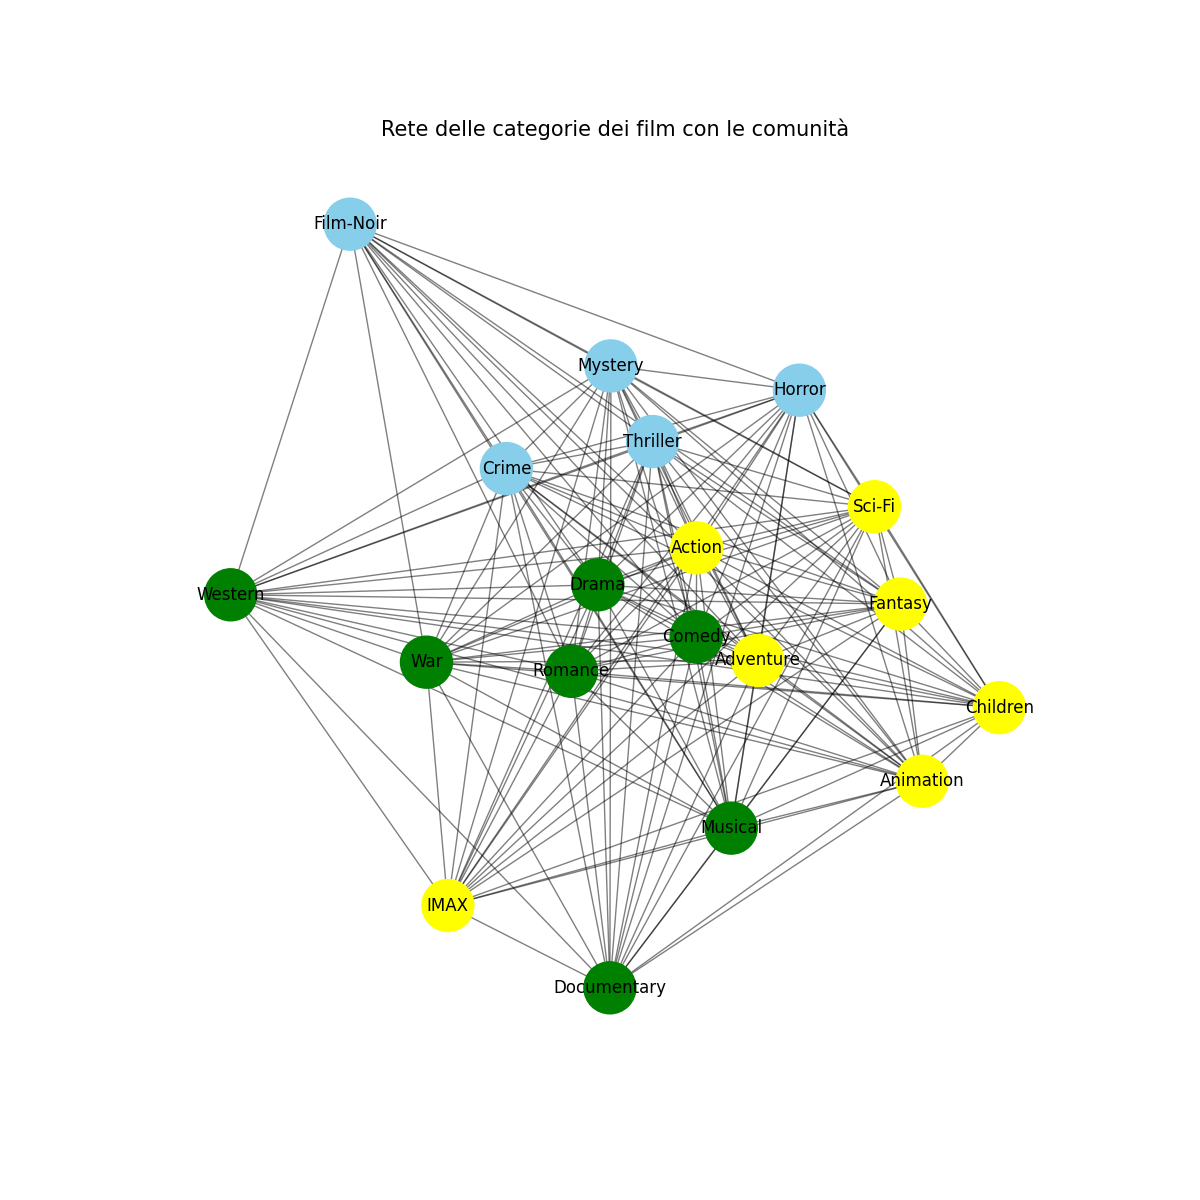
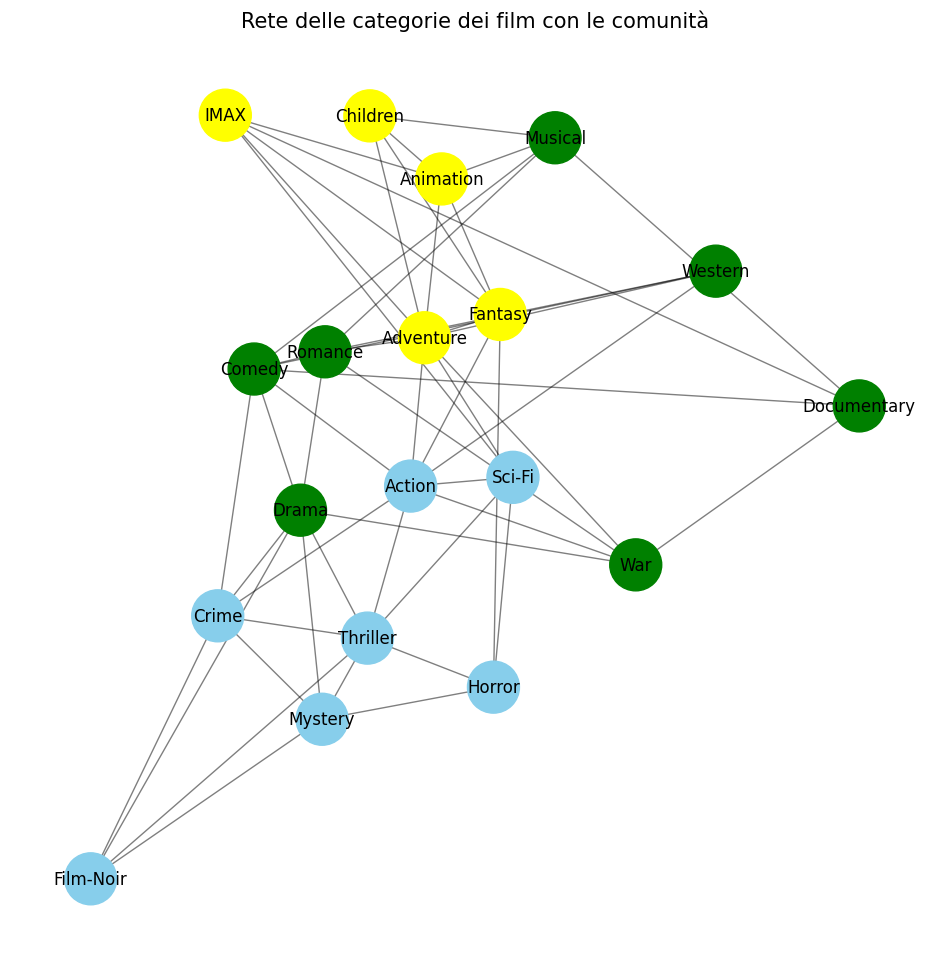
Migliorato visualizzazione del grafo delle community

diff --git a/core/community_structure/Genres_community_Structure.py b/core/community_structure/Genres_community_Structure.py
@@ -1,76 +1,98 @@
+import itertools
 import networkx as nx
 import matplotlib.pyplot as plt
-import community as community_louvain  
 import pandas as pd
+import os
+import community.community_louvain as community_louvain
 
-# Carica  file CSV 
-CSV_FILE = 'data/movies.csv'  
+CSV_FILE = "data/movies.csv"
 
-# Funzione per caricare il CSV e ottenere le categorie
 def carica_dati_csv(file_csv):
-    # Carica il CSV in un DataFrame
     df = pd.read_csv(file_csv)
-    
-    # RestituiscE una lista di film e le loro categorie
     film_categorie = []
-    for _, row in df.iterrows():
-        categories = row['genres'].split('|')  
-        film_categorie.append(categories)
+    for genres in df["genres"].astype(str):
+        cats = [g for g in genres.split("|") if g and g != "(no genres listed)"]
+        if cats:
+            film_categorie.append(cats)
     return film_categorie
 
-# Funzione per creare il grafo delle categorie
-def crea_grafo(film_categorie):
+def crea_grafo_jaccard(film_categorie):
+    
+    genre_count = {}
+    cooc = {}
+
+    for cats in film_categorie:
+        cats = list(dict.fromkeys(cats))  # unique, preserve order
+        for g in cats:
+            genre_count[g] = genre_count.get(g, 0) + 1
+        for a, b in itertools.combinations(sorted(cats), 2):
+            cooc[(a, b)] = cooc.get((a, b), 0) + 1
+
+    
     G = nx.Graph()
+    for (a, b), c in cooc.items():
+        w = c / (genre_count[a] + genre_count[b] - c)
+        G.add_edge(a, b, weight=w, cooc=c)
 
-    # Aggiungi gli archi tra le categorie di ogni film
-    for categories in film_categorie:
-        for i in range(len(categories)):
-            for j in range(i + 1, len(categories)):
-                # Se due categorie co-occorrono nello stesso film, aggiungiamo un arco
-                if G.has_edge(categories[i], categories[j]):
-                    G[categories[i]][categories[j]]['weight'] += 1  # Aumentiamo il peso
-                else:
-                    G.add_edge(categories[i], categories[j], weight=1)  # Aggiungiamo un arco con peso 1
-    
-    return G
+    return G, genre_count
 
-# Funzione per rilevare le comunità con l'algoritmo Louvain
 def rileva_comunita(G):
-    # algoritmo di Louvain per rilevare le comunità
-    partition = community_louvain.best_partition(G)  
-    return partition
-
-# Funzione per salvare il grafo come immagine
-def salva_grafo(G, partition, filepath='static/images/genres_community_graph.png'):
-
-  
-    colori = ['yellow', 'skyblue', 'green']
-    comunità = set(partition.values())
     
-    pos = nx.spring_layout(G)  
+    return community_louvain.best_partition(G, weight="weight", random_state=42, resolution=1.0)
+
+def salva_grafo(G, partition, genre_count, filepath="static/images/genres_community_graph.png"):
+    
+    colori = ["skyblue", "green", "yellow", "orange", "purple", "pink", "red", "brown", "gray", "cyan"]
+
+
+    
+    pos = nx.spring_layout(G, seed=42)
+
     plt.figure(figsize=(12, 12))
+
     
-    
+    comunità = sorted(set(partition.values()))
     for i, com in enumerate(comunità):
-        nodes = [node for node in partition if partition[node] == com]
+        nodes = [n for n in partition if partition[n] == com]
         nx.draw_networkx_nodes(
-            G, pos, nodes, node_size=1400, node_color=[colori[i % len(colori)]] * len(nodes)  # Pallini più grandi
+            G, pos,
+            nodelist=nodes,
+            node_size=1400,
+            node_color=[colori[i % len(colori)]] * len(nodes)
         )
-    
-    nx.draw_networkx_edges(G, pos, alpha=0.5)
+
+    # --- ARCHI: tieni solo i più forti ---
+    TOP_K_PER_NODE = 4  
+
+    keep = set()
+    for n in G.nodes():
+        # prendo i vicini ordinati per peso (Jaccard) decrescente
+        vicini = sorted(G[n].items(), key=lambda x: x[1].get("weight", 0), reverse=True)[:TOP_K_PER_NODE]
+        for nb, _attr in vicini:
+            keep.add(tuple(sorted((n, nb))))
+
+    edgelist = list(keep)
+
+    nx.draw_networkx_edges(G, pos, edgelist=edgelist, alpha=0.5)
+
+    # etichette 
     nx.draw_networkx_labels(G, pos, font_size=12)
-    
+
     plt.title("Rete delle categorie dei film con le comunità", size=15)
-    plt.axis('off')
-    plt.savefig(filepath)  
-    plt.close()  
+    plt.axis("off")
+    plt.savefig(filepath, bbox_inches="tight")
+    plt.close()
 
-# Main
-def main():
-    film_categorie = carica_dati_csv(CSV_FILE)
-    G = crea_grafo(film_categorie)
+
+def genera_immagine_community_generi(
+    csv_path=CSV_FILE,
+    output_path="static/images/genres_community_graph.png"
+):
+    film_categorie = carica_dati_csv(csv_path)
+    G, genre_count = crea_grafo_jaccard(film_categorie)
     partition = rileva_comunita(G)
-    salva_grafo(G, partition)  
 
-if __name__ == '__main__':
-    main()
+    os.makedirs(os.path.dirname(output_path), exist_ok=True)
+    salva_grafo(G, partition, genre_count, filepath=output_path)
+
+    return output_path

diff --git a/app.py b/app.py
@@ -37,7 +37,7 @@ from flask import request, jsonify
 from sqlalchemy.orm import sessionmaker
 from database import db, Film
 from raccomandazione.raccomandazione_collaborativa import raccomanda_film_per_utente  
-
+from core.community_structure.Genres_community_Structure import genera_immagine_community_generi
 
 
 
@@ -715,7 +715,18 @@ def users_community():
 
 @app.route('/genres_community')
 def genres_community():
+    if 'user_id' not in session:
+        flash('Devi effettuare il login', 'warning')
+        return redirect('/login')
+
+    # Genera il grafo dei generi e salva l'immagine in static/images
+    genera_immagine_community_generi(
+        csv_path="data/movies.csv",
+        output_path="static/images/genres_community_graph.png"
+    )
+
     return render_template('genres_community.html')
+
 
 
 #--------------NLP SYSTEM---------------
